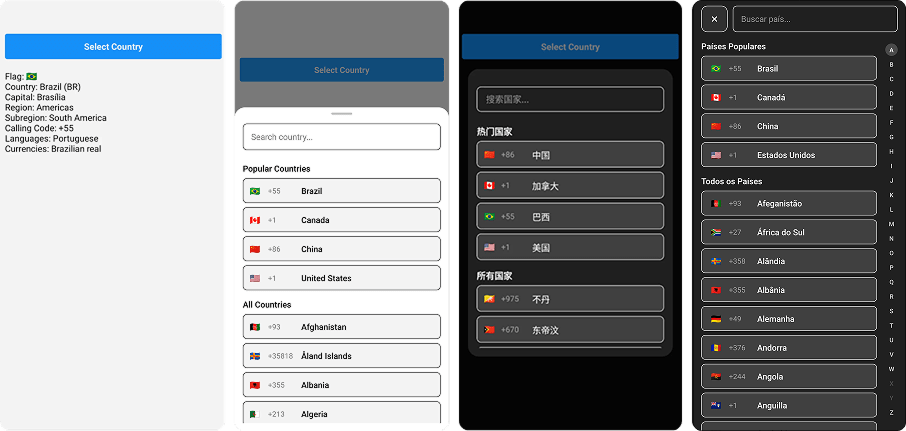
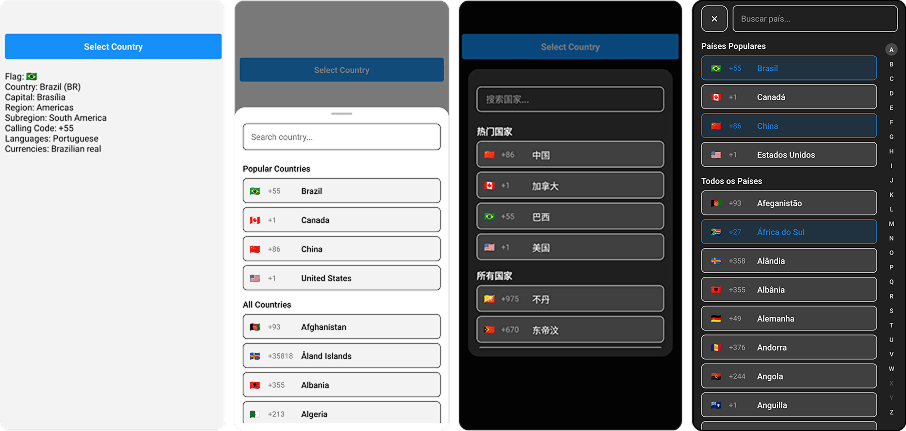
docs: updated lib documentation

diff --git a/README.md b/README.md
@@ -246,6 +246,46 @@ export default function App() {
 
 <br>
 
+- Multi Select Country
+
+```tsx
+import React, {useState} from 'react';
+import {Text, TouchableOpacity, View} from 'react-native';
+
+import CountrySelect, {ICountry} from 'react-native-country-select';
+
+export default function App() {
+  const [showPicker, setShowPicker] = useState<boolean>(false);
+  const [selectedCountries, setSelectedCountries] = useState<ICountry[]>([]);
+
+  const handleCountrySelect = (countries: ICountry[]) => {
+    setSelectedCountries(countries);
+  };
+
+  return (
+    <View
+      style={{
+        flex: 1,
+      }}>
+      <TouchableOpacity onPress={() => setShowPicker(true)}>
+        <Text>Select Countries</Text>
+      </TouchableOpacity>
+      <Text>Countries: {selectedCountries.length}</Text>
+
+      <CountrySelect
+        visible={showPicker}
+        isMultiSelect
+        selectedCountries={selectedCountries}
+        onSelect={handleCountrySelect}
+        onClose={() => setShowPicker(false)}
+      />
+    </View>
+  );
+}
+```
+
+<br>
+
 ### Modal Styles ([modalStyles](https://github.com/AstrOOnauta/react-native-country-select/blob/main/lib/interface/countrySelectStyles.ts))
 
 | Property                   | Type      | Description               |
